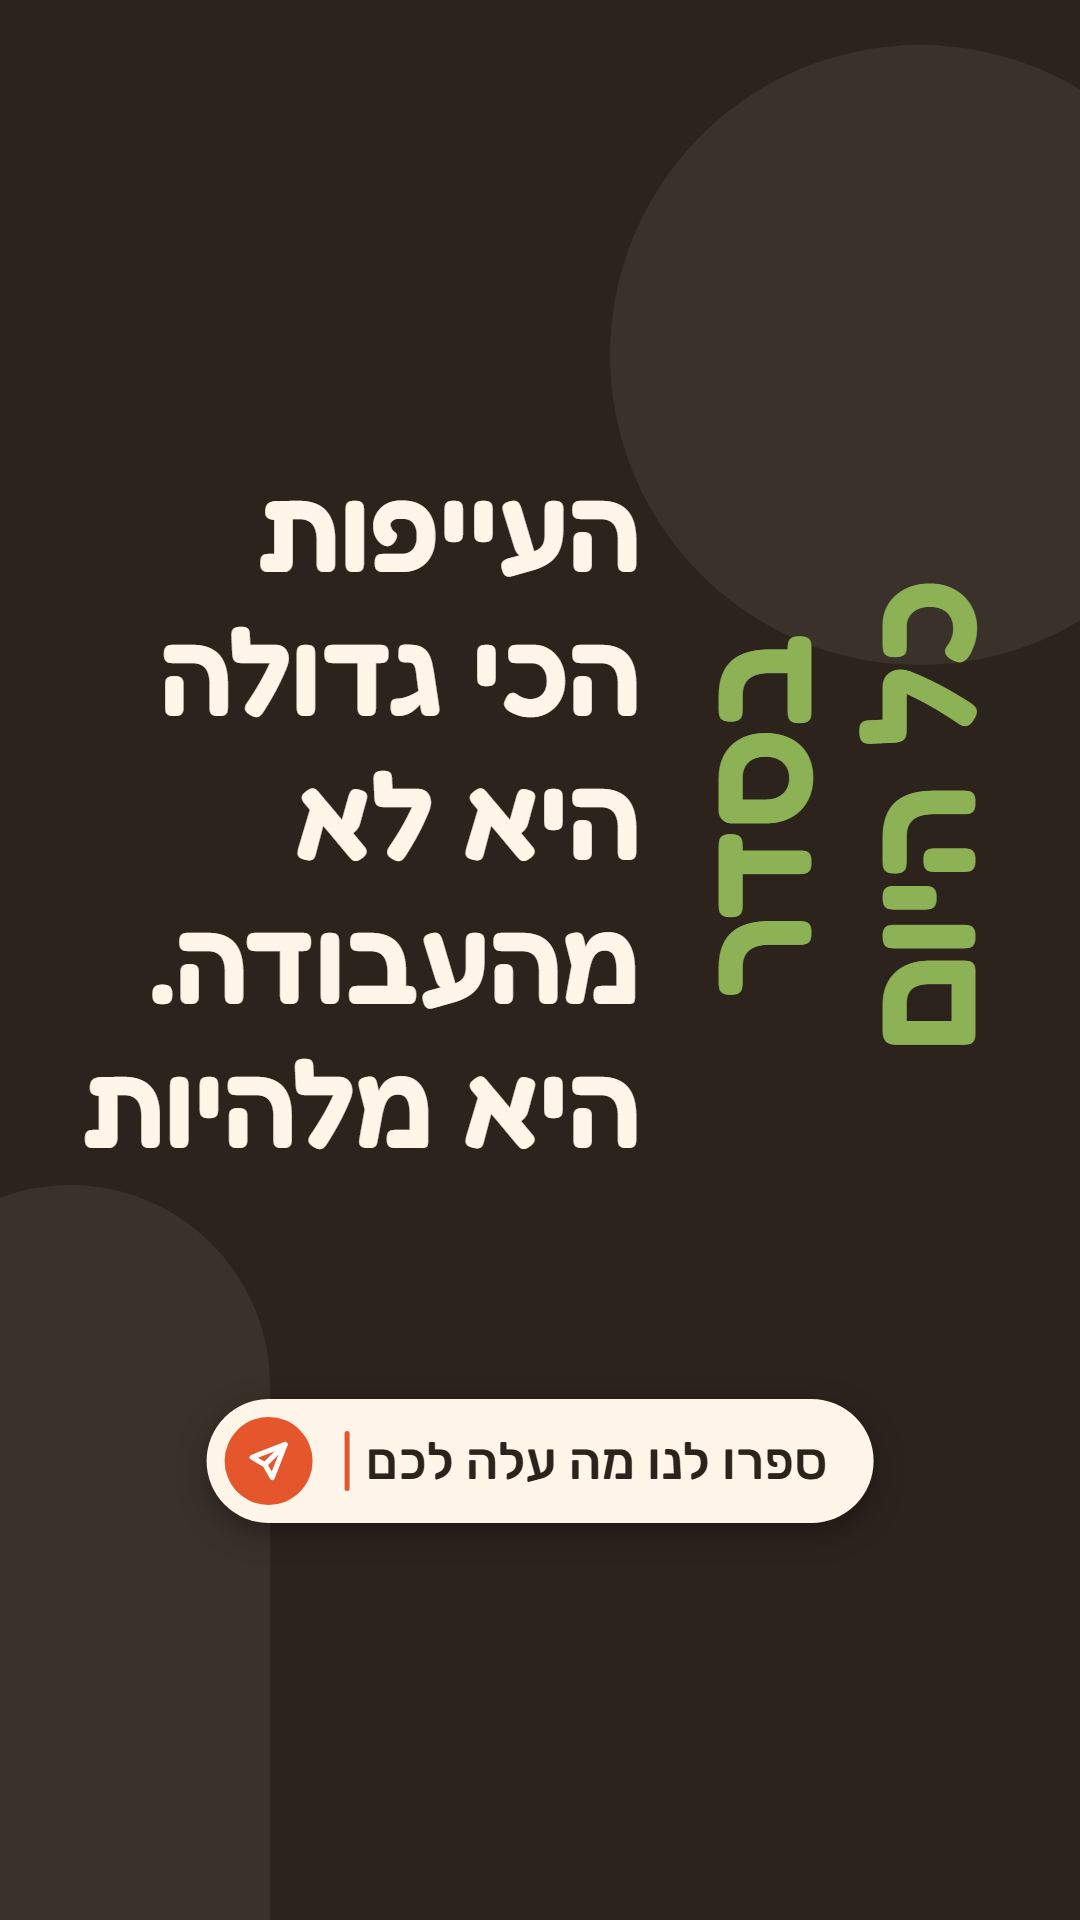
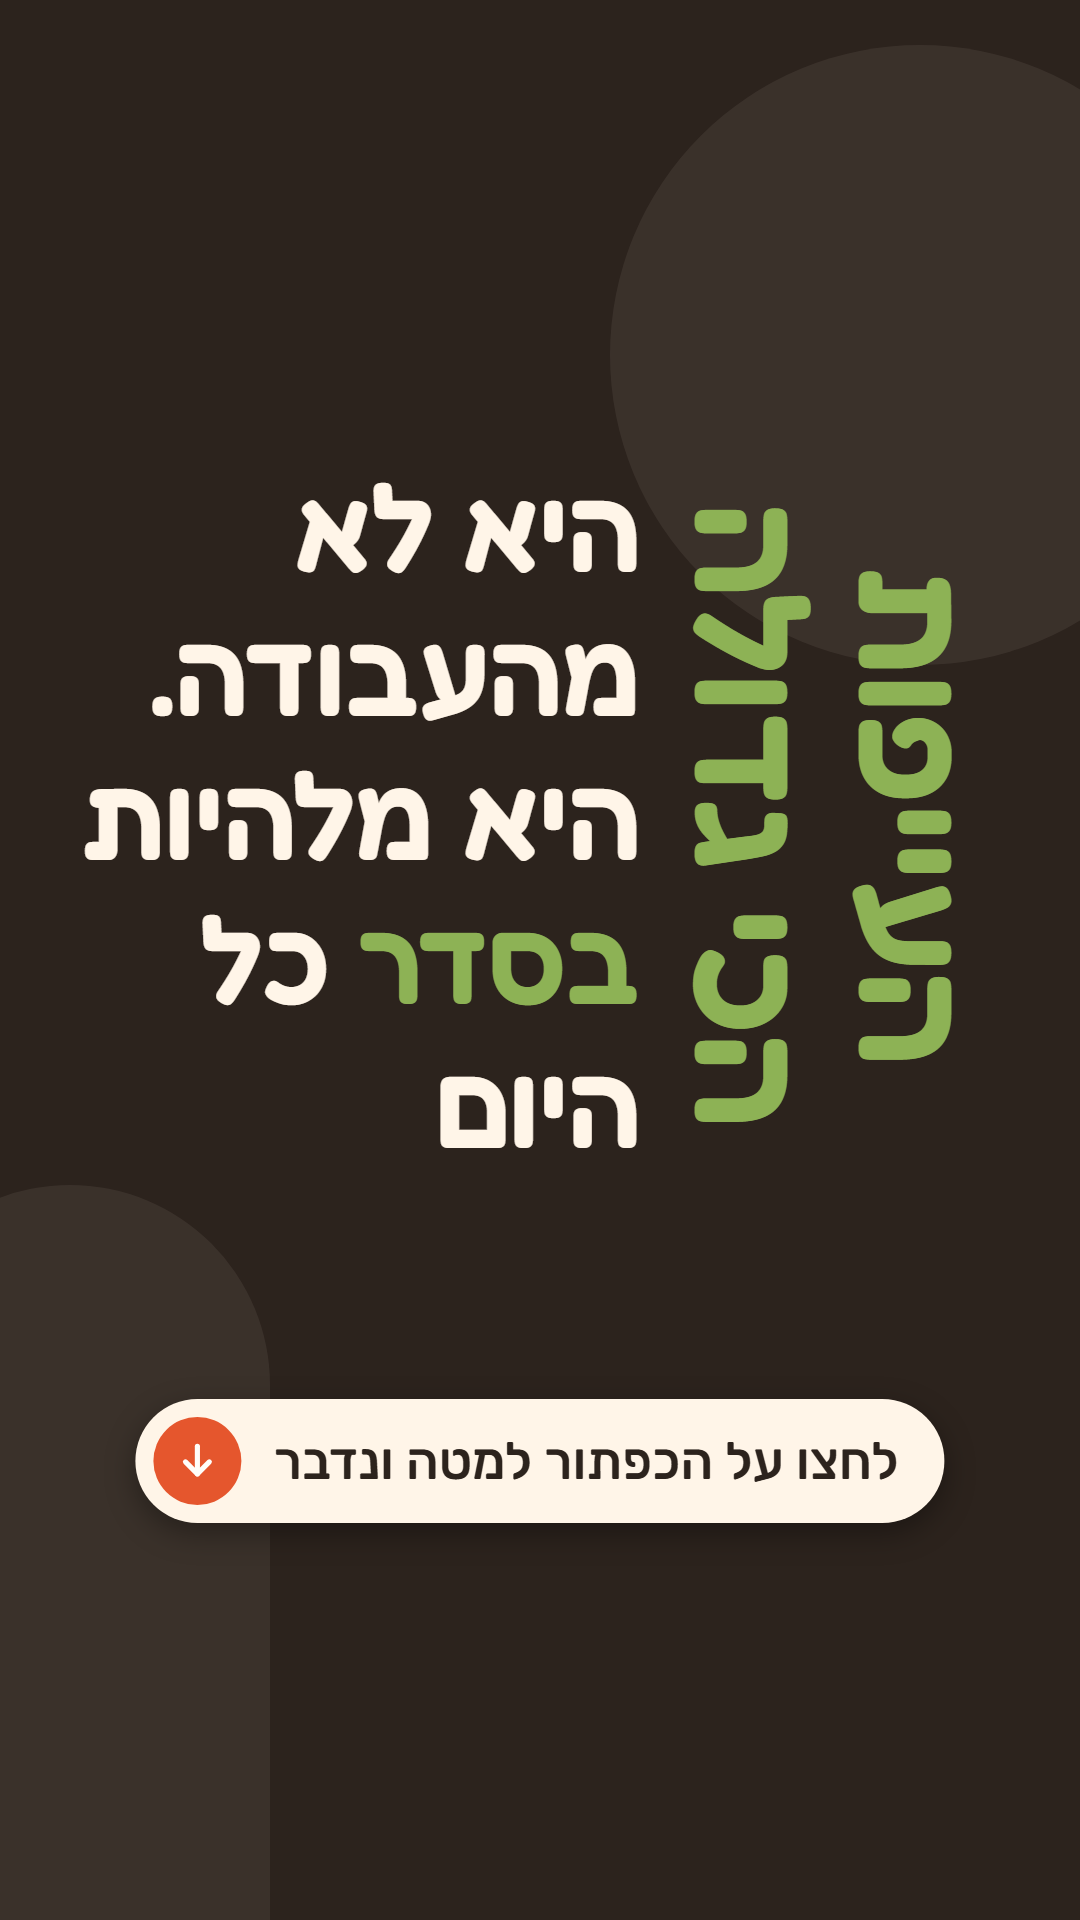
מודעות צ'אט: סדר קריאה מימין לשמאל (מאונך קודם), והפניה לכפתור של פייסבוק

diff --git a/ads/tools/build_chat_ads.py b/ads/tools/build_chat_ads.py
@@ -1,18 +1,18 @@
 # מודעות פייסבוק לצ'אט (chat/): תמונת טקסט 9:16 (1080x1920), כל התוכן באזור בטוח 4:5, שני צבעים, בלי צילומים.
-# הטקסטים מ-chat/openers.json (המפתח = ?c= בקישור). מה שב-[ ] מודגש. בתחתית: שורת כתיבה של צ'אט (במקום שורת החיפוש של מודעות הגוגל).
+# הטקסטים מ-chat/openers.json (המפתח = ?c= בקישור). מה שב-[ ] מודגש. בתחתית: שורת הפניה לכפתור של פייסבוק שמתחת למודעה (חץ למטה), במקום שורת החיפוש של מודעות הגוגל.
 # הרצה: python ads/tools/build_chat_ads.py   -> ads/chat/img/chat-<מפתח>-916.png  (דורש Chrome)
 import json, pathlib, subprocess, tempfile, sys
 sys.path.insert(0, str(pathlib.Path(__file__).parent))
 import build_ads as B
 ROOT = B.ROOT
 # מפתח -> (שורות אופקיות, מילים מאונכות (קוראים מלמטה למעלה), צבע הדגשה חי (מהפלטה: coral / sage / terra) על רקע ink, צד האונך: left/right, רוחב עמודת האונך)
-# הרצף בקריאה: קודם המשפט האופקי ואז המילים המאונכות הגדולות (חותמת המשפט). מה שב-[ ] מודגש.
+# הרצף בקריאה (מימין לשמאל, כמו בעברית): קודם המילים המאונכות הגדולות מצד ימין (קוראים מלמעלה למטה, שורה אחרי שורה לכיוון שמאל), ואז ממשיכים לשמאלן אל המשפט האופקי. מה שב-[ ] מודגש.
 ADS = {
-  "touch": ("כמה זמן עבר מאז שמישהו [חיבק] אותנו", "בלי סיבה?", "#FF8A5C", "left", 360),
-  "mask": ("העייפות הכי גדולה היא לא מהעבודה. היא מלהיות", "בסדר<br>כל היום", "#8DB255", "left", 330),
-  "numb": ("הכי מפחיד זה לא שהכול רע. זה שהכול בסדר,", "ואנחנו כבר<br>לא מרגישים", "#E5562D", "left", 300),
+  "touch": ("מאז שמישהו [חיבק] אותנו בלי סיבה?", "כמה זמן עבר", "#FF8A5C", "right", 300),
+  "mask": ("היא לא מהעבודה. היא מלהיות [בסדר] כל היום", "העייפות<br>הכי גדולה", "#8DB255", "right", 330),
+  "numb": ("זה שהכול בסדר, [ואנחנו כבר לא מרגישים]", "הכי מפחיד<br>זה לא שהכול רע.", "#E5562D", "right", 340),
 }
-CTA = "ספרו לנו מה עלה לכם"
+CTA = "לחצו על הכפתור למטה ונדבר"
 
 def page(h, v, i, side, vw):
     bg, fg, acc, deco = "#2C231D", "#FFF5E8", i, "rgba(255,245,232,.07)"   # ink, cream, ובצבע הדגשה חי
@@ -26,11 +26,11 @@ html,body{{width:{B.W}px;height:{B.H}px;overflow:hidden}}
 body{{background:{bg};color:{fg};font-family:Fredoka,Rubik,sans-serif;position:relative}}
 .c1{{position:absolute;right:-150px;top:{B.SAFE-240}px;width:620px;height:620px;border-radius:50%;background:{deco}}}
 .c2{{position:absolute;left:-130px;bottom:0;width:400px;height:{450+B.SAFE}px;border-radius:200px 200px 0 0;background:{deco}}}
-.main{{position:absolute;left:{gut}px;right:{gut}px;top:{top}px;height:{ch}px;display:flex;flex-direction:{'row-reverse' if side == 'left' else 'row'};gap:30px;align-items:stretch}}
+.main{{position:absolute;left:{gut}px;right:{gut}px;top:{top}px;height:{ch}px;display:flex;flex-direction:row;gap:30px;align-items:stretch}}
 .h{{flex:1;display:flex;align-items:center;min-width:0}}
 #h{{font-weight:600;line-height:1.2;text-align:right}}
-.v{{width:{vw}px;flex:none;display:flex;align-items:center;justify-content:center}}
-#v{{writing-mode:vertical-rl;transform:rotate(180deg);font-weight:600;line-height:1.05;color:{acc};white-space:nowrap;text-align:center}}
+.v{{order:-1;width:{vw}px;flex:none;display:flex;align-items:center;justify-content:center}}
+#v{{writing-mode:vertical-rl;font-weight:600;line-height:1.05;color:{acc};white-space:nowrap;text-align:center}}
 em{{font-style:normal;color:{acc}}}
 .chat{{position:absolute;bottom:{B.SAFE+112}px;left:50%;transform:translateX(-50%);height:124px;display:flex;align-items:center;gap:26px;
   padding:0 46px 0 18px;border-radius:999px;background:#FFF5E8;border:0;box-shadow:0 10px 30px rgba(0,0,0,.35);white-space:nowrap}}
@@ -41,8 +41,8 @@ em{{font-style:normal;color:{acc}}}
 </style></head><body>
 <div class="c1"></div><div class="c2"></div>
 <div class="main"><div class="h"><div id="h">{B.colored(h)}</div></div><div class="v"><div id="v">{v}</div></div></div>
-<div class="chat"><span class="q">{CTA}<span class="caret"></span></span>
-<span class="go"><svg viewBox="0 0 24 24" fill="none" stroke="#FFFDF9" stroke-width="2.8" stroke-linecap="round" stroke-linejoin="round"><path d="M21 3 10 14"/><path d="M21 3 14 21l-4-7-7-4z"/></svg></span></div>
+<div class="chat"><span class="q">{CTA}</span>
+<span class="go"><svg viewBox="0 0 24 24" fill="none" stroke="#FFFDF9" stroke-width="2.8" stroke-linecap="round" stroke-linejoin="round"><path d="M12 4v15"/><path d="m5.5 12.5 6.5 6.5 6.5-6.5"/></svg></span></div>
 <script>
 const h=document.getElementById('h'), hb=h.parentElement, v=document.getElementById('v'), vb=v.parentElement;
 function fit(el, box, maxFs){{ let fs=maxFs; el.style.fontSize=fs+'px'; while((el.offsetHeight>box.clientHeight||el.offsetWidth>box.clientWidth) && fs>30){{ fs-=4; el.style.fontSize=fs+'px'; }} }}
@@ -54,7 +54,7 @@ def main():
     tmp = pathlib.Path(tempfile.mkdtemp())
     openers = json.loads((ROOT/"chat"/"openers.json").read_text(encoding="utf-8"))["items"]
     for key, (h, v, style, side, vw) in ADS.items():
-        full = B.plain(h) + " " + v.replace("<br>", " ")
+        full = v.replace("<br>", " ") + " " + B.plain(h)
         assert full.replace("‘","'").replace("’","'").replace(" כל ", " כל ") .strip() == openers[key]["ad"].replace("‘", "").replace("’", "").replace("'", "").strip() or key not in openers, key + ": הטקסט שונה מ-chat/openers.json: " + full
         f = tmp/(key+".html"); f.write_text(page(h, v, style, side, vw), encoding="utf-8")
         name = f"chat-{key}-916.png"
